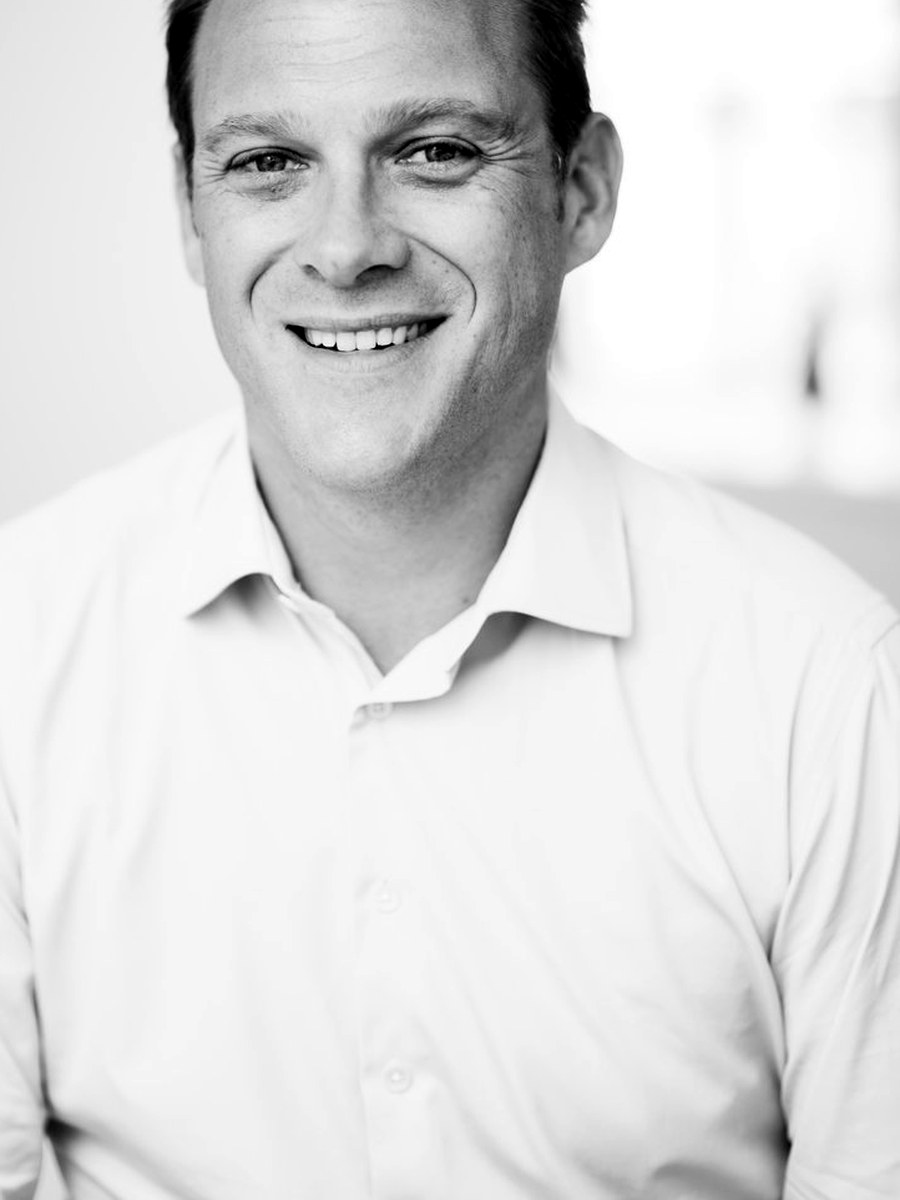
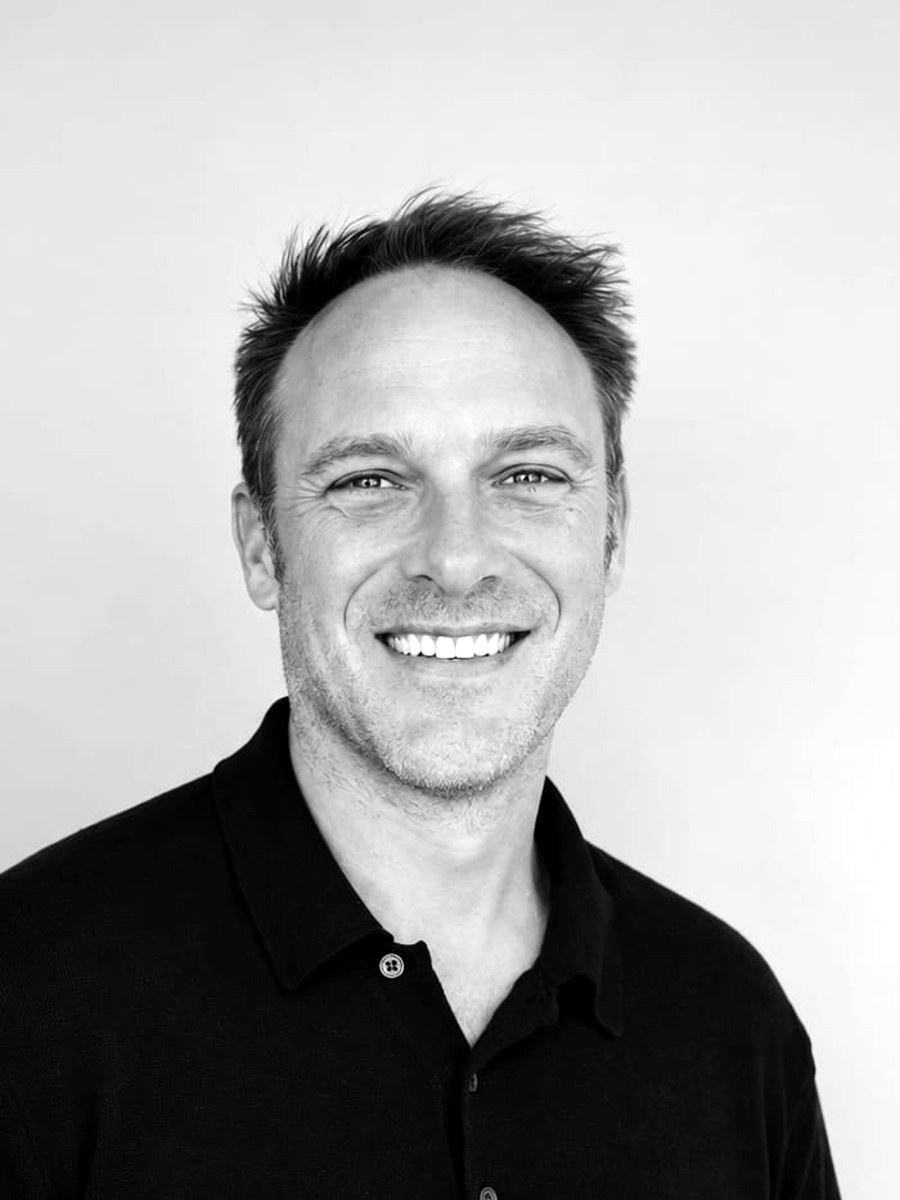
Service pages share one "What we offer" list; Woody's headshot recropped
Brand Representation and Consultancy get the same list-plus-panel of
services with a sentence each that Lease Advisory already had (one shared
component). Woody's headshot comes from the 2026 studio original at the
house framing.

Claude-Session: https://claude.ai/code/session_01VWYEsv9bQyCv1sfuch6PLS

diff --git a/marketing/src/lib/content.ts b/marketing/src/lib/content.ts
@@ -473,9 +473,49 @@ export const LEASE_ADVISORY_SERVICES = [
 ];
 
 export const CONSULTANCY_SERVICES = [
-  "Pre-purchase advice for investment acquisitions, independent of our own investment team",
-  "Asset management strategy and implementation",
-  "Bespoke reporting and long-term placemaking consultancy",
+  {
+    name: "Ground floor & amenity strategy",
+    detail: "Defining the role, mix, scale and typology of day and evening uses — food and beverage, retail, leisure, culture, community anchors and services — so a ground floor works once built and supports the uses above it.",
+  },
+  {
+    name: "Placemaking consultancy",
+    detail: "Long-term advice to estates, developers and business improvement districts on what makes a destination consistently lively, grounded in occupier evidence and our leasing teams' live market knowledge.",
+  },
+  {
+    name: "Pre-purchase advice",
+    detail: "Independent advice on the retail and leisure potential of an investment acquisition, separate from our own investment team, so a buyer prices the ground floor correctly.",
+  },
+  {
+    name: "Asset management strategy",
+    detail: "Strategy and implementation for existing assets: repositioning, tenant mix, lease events and meanwhile use, aligned with the owner's business plan.",
+  },
+  {
+    name: "Bespoke reporting",
+    detail: "Research and reporting tailored to a client's question — market studies, occupier demand, benchmarking and future-trend insight for long-term development.",
+  },
+];
+
+export const BRAND_REP_SERVICES = [
+  {
+    name: "Global gatekeepers",
+    detail: "First-to-market UK retail locations for the world's most talked-about international brands, from a single flagship to a considered roll-out.",
+  },
+  {
+    name: "Digital to physical",
+    detail: "We take game-changing DTC brands from URL to IRL, planning and delivering high-impact bricks-and-mortar debuts that convert an online following into a destination.",
+  },
+  {
+    name: "Site acquisition",
+    detail: "Search, shortlist, negotiate and complete. Our relationships with London's estates and the UK's landmark destinations open doors that aren't on the market.",
+  },
+  {
+    name: "Portfolio strategy",
+    detail: "Where to be next and when: a roll-out plan built on footfall, catchment, competition and the brand's own trading data.",
+  },
+  {
+    name: "Lease negotiation",
+    detail: "Terms that protect a brand as it grows — rent, incentives, breaks and flexibility negotiated alongside our Lease Advisory team.",
+  },
 ];
 
 export const CONSULTANCY_BODY = [
@@ -802,8 +842,6 @@ export const SERVICE_COPY = {
     intro: "We help brands discover, secure and maximise opportunities across the UK's most exciting retail, leisure and hospitality destinations.",
     body: [
       "Our team combine market intelligence, occupier insight and creative thinking to deliver strategies that put brands in the right place, at the right time.",
-      "Global Gatekeepers: We deliver first-to-market UK retail locations for the world's most talked-about international brands.",
-      "Digital to Physical: We take 'game-changing' DTC brands from URL to IRL with high-impact bricks-and-mortar debuts.",
     ],
   },
 };

diff --git a/marketing/src/pages/LeaseAdvisory.tsx b/marketing/src/pages/LeaseAdvisory.tsx
@@ -1,5 +1,5 @@
-import { useState } from "react";
 import KeyContacts from "../components/KeyContacts";
+import ServiceList from "../components/ServiceList";
 import { Link } from "wouter";
 import ClientRow from "../components/ClientRow";
 import Placeholder from "../components/Placeholder";
@@ -11,7 +11,6 @@ export default function LeaseAdvisory() {
   const { caseStudies, contacts } = useSiteContent();
   const LEASE_ADVISORY_CASE_STUDIES = caseStudies.filter((c) => c.service === "Lease Advisory");
   const LEASE_ADVISORY_CONTACTS = contacts.lease_advisory;
-  const [selected, setSelected] = useState(0);
 
   return (
     <div>
@@ -30,35 +29,7 @@ export default function LeaseAdvisory() {
         <ClientRow clients={LEASE_ADVISORY_CLIENTS} />
       </section>
 
-      <section className="mx-auto max-w-6xl px-4 py-6">
-        <div className="grid grid-cols-1 md:grid-cols-[240px_1fr] gap-10">
-          <div>
-            <h2 className="display text-2xl md:text-3xl">What we offer</h2>
-            <ul className="mt-6 space-y-3">
-              {LEASE_ADVISORY_SERVICES.map((s, i) => (
-                <li key={s.name}>
-                  <button
-                    onClick={() => setSelected(i)}
-                    className={`text-left text-sm border-l-2 pl-3 transition-colors ${
-                      selected === i
-                        ? "border-bgp-burgundy font-semibold text-bgp-burgundy"
-                        : "border-transparent text-bgp-ink/70 hover:text-bgp-burgundy"
-                    }`}
-                  >
-                    {s.name}
-                  </button>
-                </li>
-              ))}
-            </ul>
-          </div>
-          <div className="bg-bgp-mist p-8">
-            <p className="label-caps mb-3">{LEASE_ADVISORY_SERVICES[selected].name}</p>
-            <p className="text-sm text-bgp-ink/70 leading-relaxed max-w-lg">
-              {LEASE_ADVISORY_SERVICES[selected].detail}
-            </p>
-          </div>
-        </div>
-      </section>
+      <ServiceList services={LEASE_ADVISORY_SERVICES} />
 
       <section className="mx-auto max-w-6xl px-4 py-10">
         <span className="section-label">Case studies</span>

diff --git a/marketing/src/pages/Consultancy.tsx b/marketing/src/pages/Consultancy.tsx
@@ -1,5 +1,6 @@
 import { Link } from "wouter";
 import KeyContacts from "../components/KeyContacts";
+import ServiceList from "../components/ServiceList";
 import ClientRow from "../components/ClientRow";
 import Placeholder from "../components/Placeholder";
 import { CONSULTANCY_BODY, CONSULTANCY_CLIENTS, CONSULTANCY_SERVICES, SERVICES, TESTIMONIAL } from "../lib/content";
@@ -28,27 +29,15 @@ export default function Consultancy() {
       </section>
 
       <section className="mx-auto max-w-6xl px-4 py-6">
-        <div className="grid grid-cols-1 md:grid-cols-2 gap-10">
-          <div className="bg-bgp-mist p-8">
-            <p className="label-caps border-b border-bgp-ink pb-2 mb-6">Additional services</p>
-            <ul className="space-y-4">
-              {CONSULTANCY_SERVICES.map((s) => (
-                <li key={s} className="text-sm text-bgp-ink/70 leading-relaxed border-b border-bgp-line pb-4">
-                  {s}
-                </li>
-              ))}
-            </ul>
-          </div>
-          <div className="space-y-4">
-            <p className="text-sm font-semibold leading-relaxed">{CONSULTANCY_BODY[0]}</p>
-            {CONSULTANCY_BODY.slice(1).map((p) => (
-              <p key={p.slice(0, 20)} className="text-sm text-bgp-ink/70 leading-relaxed">
-                {p}
-              </p>
-            ))}
-          </div>
+        <div className="max-w-3xl space-y-4">
+          <p className="text-base md:text-lg font-semibold text-bgp-ink leading-relaxed">{CONSULTANCY_BODY[0]}</p>
+          {CONSULTANCY_BODY.slice(1).map((p) => (
+            <p key={p.slice(0, 20)} className="text-base md:text-lg text-bgp-ink/90 leading-relaxed">{p}</p>
+          ))}
         </div>
       </section>
+
+      <ServiceList services={CONSULTANCY_SERVICES} />
 
       {/* Client quote */}
       <section className="mx-auto max-w-6xl px-4 py-14">

diff --git a/marketing/src/components/ServiceList.tsx b/marketing/src/components/ServiceList.tsx
@@ -1,0 +1,39 @@
+import { useState } from "react";
+
+// "What we offer" — the same list-plus-panel on every service page
+// (Lease Advisory set the pattern; Brand Representation and Consultancy
+// follow it, Woody 2026-10-12). Leasing and Investment have sub-pages
+// instead.
+export default function ServiceList({ services, heading = "What we offer" }: { services: Array<{ name: string; detail: string }>; heading?: string }) {
+  const [selected, setSelected] = useState(0);
+  const current = services[selected] ?? services[0];
+  return (
+    <section className="mx-auto max-w-6xl px-4 py-6">
+      <div className="grid grid-cols-1 md:grid-cols-[260px_1fr] gap-10">
+        <div>
+          <h2 className="display text-2xl md:text-3xl">{heading}</h2>
+          <ul className="mt-6 space-y-3">
+            {services.map((s, i) => (
+              <li key={s.name}>
+                <button
+                  onClick={() => setSelected(i)}
+                  className={`text-left text-base border-l-2 pl-3 transition-colors ${
+                    selected === i
+                      ? "border-bgp-burgundy font-semibold text-bgp-burgundy"
+                      : "border-transparent text-bgp-ink/70 hover:text-bgp-burgundy"
+                  }`}
+                >
+                  {s.name}
+                </button>
+              </li>
+            ))}
+          </ul>
+        </div>
+        <div className="bg-bgp-mist p-8">
+          <p className="label-caps mb-3">{current.name}</p>
+          <p className="text-base md:text-lg text-bgp-ink/85 leading-relaxed max-w-xl">{current.detail}</p>
+        </div>
+      </div>
+    </section>
+  );
+}

diff --git a/marketing/src/pages/BrandRepresentation.tsx b/marketing/src/pages/BrandRepresentation.tsx
@@ -2,7 +2,8 @@ import { Link } from "wouter";
 import KeyContacts from "../components/KeyContacts";
 import { ClientCircle } from "../components/ClientRow";
 import Placeholder from "../components/Placeholder";
-import { BRAND_REP_PILLARS, SERVICE_COPY, SERVICES } from "../lib/content";
+import { BRAND_REP_PILLARS, BRAND_REP_SERVICES, SERVICE_COPY, SERVICES } from "../lib/content";
+import ServiceList from "../components/ServiceList";
 import { useSiteContent } from "../lib/site-content";
 
 export default function BrandRepresentation() {
@@ -22,6 +23,9 @@ export default function BrandRepresentation() {
           ))}
         </div>
       </section>
+
+      <div className="mt-8" />
+      <ServiceList services={BRAND_REP_SERVICES} />
 
       <section className="mx-auto max-w-6xl px-4 py-14">
         <h2 className="display text-2xl md:text-3xl mb-3">A snapshot of clients</h2>
